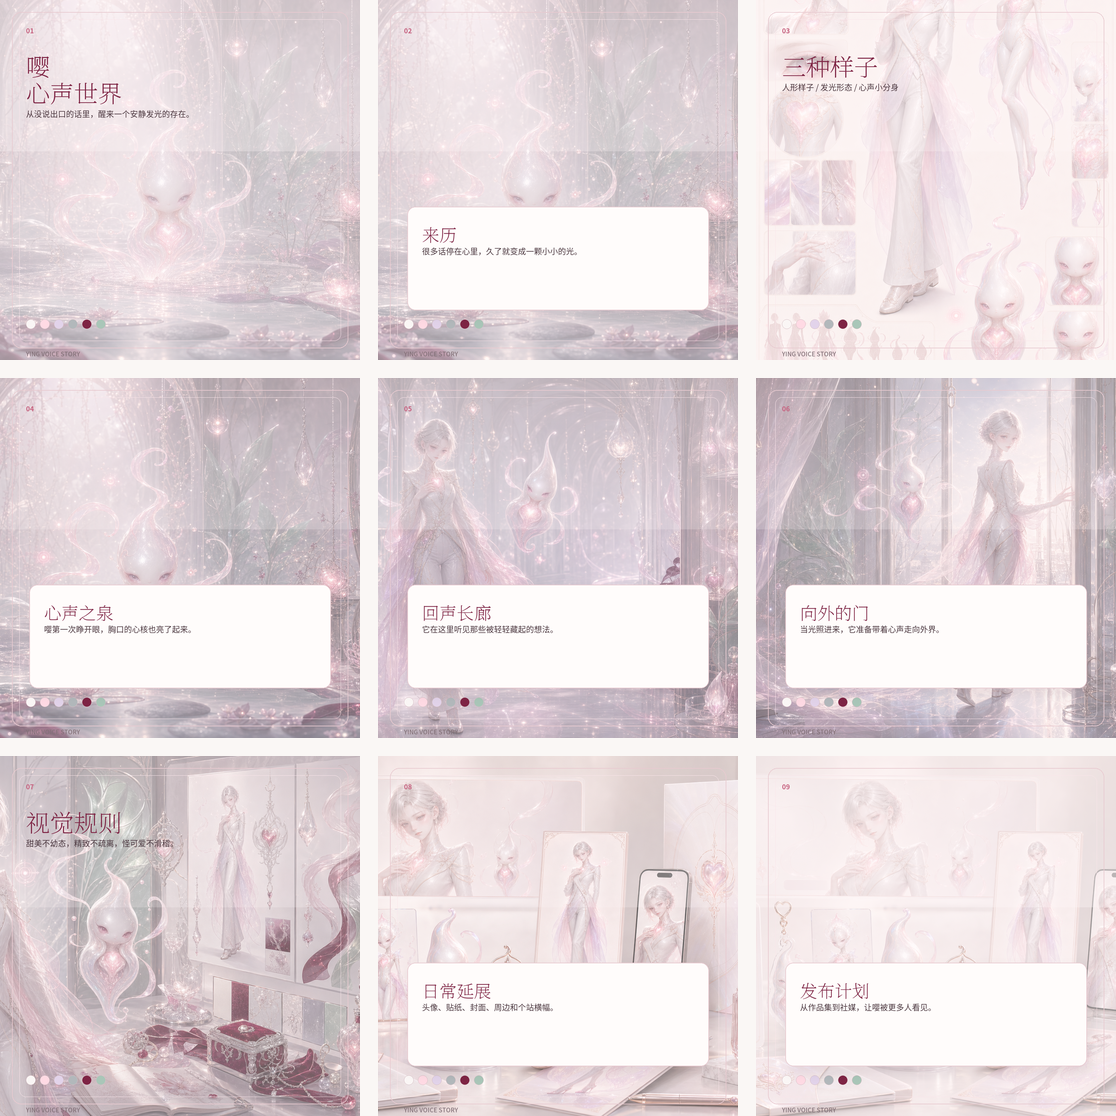
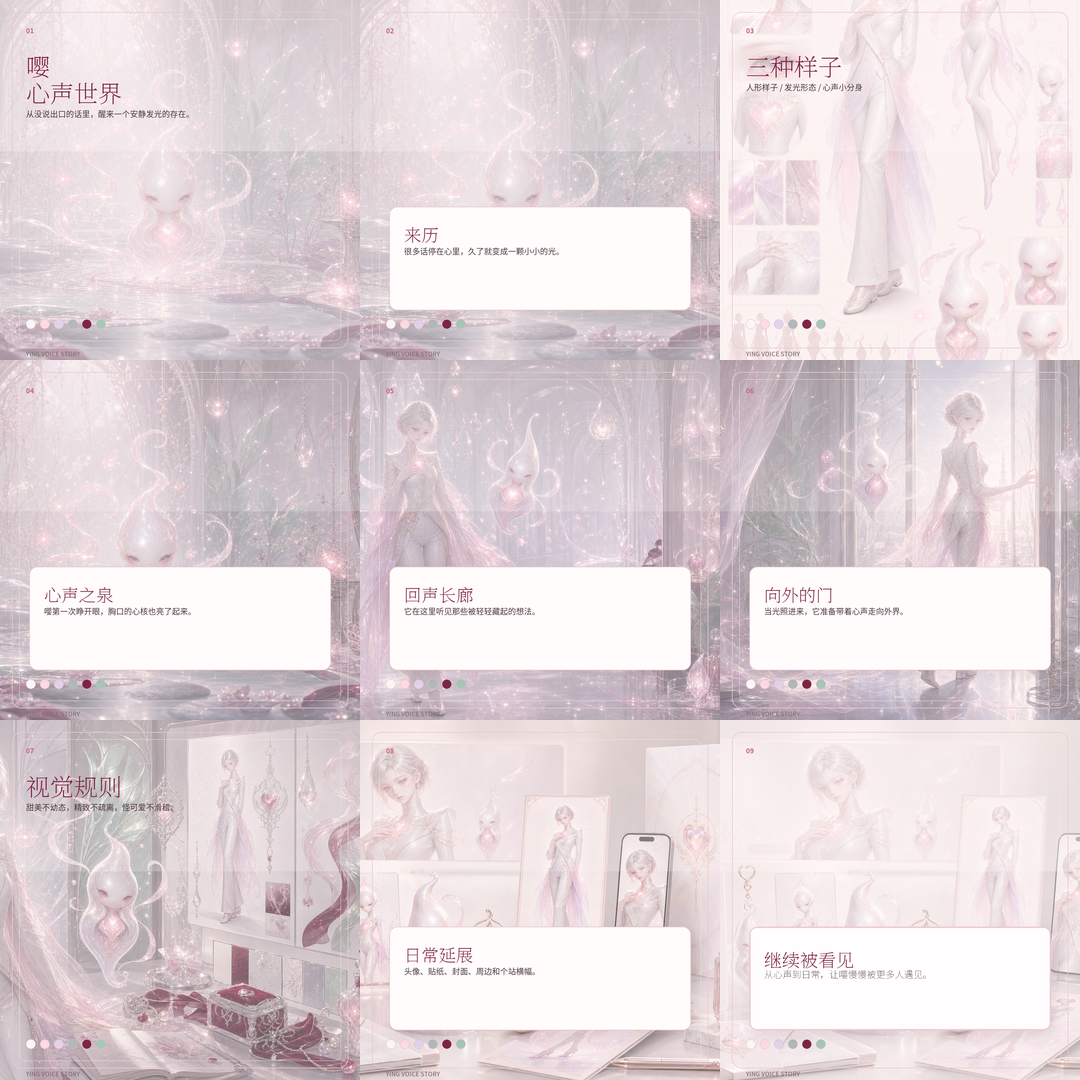
Integrate outward-facing gallery wording

diff --git a/index.html b/index.html
@@ -26,8 +26,7 @@
         <a href="#forms">三种样子</a>
         <a href="#outfits">衣服</a>
         <a href="#visual">视觉</a>
-        <a href="#web">个站图</a>
-        <a href="#social">发布包</a>
+        <a href="#web">被看见</a>
       </nav>
     </header>
 
@@ -58,7 +57,7 @@
           </div>
           <div>
             <span>9</span>
-            <p>发布图</p>
+            <p>外界画面</p>
           </div>
         </div>
       </section>
@@ -285,24 +284,24 @@
 
       <section id="web" class="section-band web-section">
         <div class="section-heading">
-          <p class="eyebrow">07 / WEBSITE MODULES</p>
-          <h2>页面里的展示图</h2>
+          <p class="eyebrow">07 / SEEN OUTSIDE</p>
+          <h2>它怎样被看见</h2>
         </div>
         <div class="web-image-grid">
           <article>
-            <img src="./assets/ying_ip_web_worldview_setting_v4.webp" alt="嘤的内心花园设定图" />
+            <img src="./assets/world_scenes/ying_world_origin_v1.webp" alt="嘤在心声之泉中醒来" />
             <div>
-              <span>WORLDVIEW</span>
-              <h3>内心花园</h3>
-              <p>解释它从哪里来、为什么存在，以及那些心核和声波意味着什么。</p>
+              <span>INNER BEGINNING</span>
+              <h3>从心里开始</h3>
+              <p>先让人看见它醒来的地方：水光、心核、声波，以及那些还没说出口的话。</p>
             </div>
           </article>
           <article>
-            <img src="./assets/ying_ip_web_application_setting_v4.webp" alt="嘤的公共露出设定图" />
+            <img src="./assets/grand_scenes/grand_scene_04_threshold_city_v1.webp" alt="嘤的世界通向外界" />
             <div>
-              <span>APPLICATION</span>
-              <h3>公共露出</h3>
-              <p>展示头像、贴纸、周边、封面与网页露出，让嘤可以真正出现在日常里。</p>
+              <span>OUTER TRACE</span>
+              <h3>再走向外界</h3>
+              <p>当门打开，它不再只是心里的光，也可以成为头像、贴纸、封面和被随手遇见的小画面。</p>
             </div>
           </article>
         </div>
@@ -310,26 +309,26 @@
 
       <section id="social" class="section-band social-section">
         <div class="section-heading">
-          <p class="eyebrow">08 / SOCIAL LAUNCH KIT</p>
-          <h2>社媒发布包</h2>
+          <p class="eyebrow">08 / FIRST GLIMPSE</p>
+          <h2>留给外界的九张画面</h2>
         </div>
         <div class="social-layout">
           <div class="social-copy">
-            <h3>发布定位</h3>
+            <h3>第一次见面</h3>
             <p>
-              这一组内容用于第一次把“嘤”推到大众视野里。它不是只展示结果图，而是用九宫格讲清楚：嘤从哪里来、它有哪三种样子、它怎样从心声走向日常。
+              这九张图像一次轻轻的自我介绍：先让人看见嘤从哪里来，再看见它的样子、颜色、衣服，以及它怎样慢慢走到日常里。
             </p>
             <div class="copy-card">
-              <span>首发标题</span>
+              <span>一句话</span>
               <p id="launch-title">嘤：一个从没说出口的心声里醒来的甜美怪可爱存在</p>
-              <button class="copy-button" type="button" data-copy-target="launch-title">复制标题</button>
+              <button class="copy-button" type="button" data-copy-target="launch-title">复制这句</button>
             </div>
             <div class="copy-card">
-              <span>首发文案</span>
+              <span>一段话</span>
               <p id="launch-copy">
                 嘤诞生在那些没被立刻说出口的心声里。它外表安静、腼腆、精致，内心却有很多想法、完美主义和对生活的向往。我希望它不只是好看，而是能慢慢替我说出那些柔软、敏感、认真生活的部分。
               </p>
-              <button class="copy-button" type="button" data-copy-target="launch-copy">复制文案</button>
+              <button class="copy-button" type="button" data-copy-target="launch-copy">复制这段</button>
             </div>
             <div class="tag-row" aria-label="推荐标签">
               <span>#原创设定</span>
@@ -339,33 +338,33 @@
               <span>#怪可爱</span>
             </div>
           </div>
-          <div class="post-grid" aria-label="九宫格发布节奏">
+          <div class="post-grid" aria-label="九张外界画面">
             <article class="post-card social-card-img">
-              <img src="./assets/social_cards/ying_ip_social_01.webp" alt="嘤首发图片 01" />
+              <img src="./assets/social_cards/ying_ip_social_01.webp" alt="嘤留给外界的画面 01" />
             </article>
             <article class="post-card social-card-img">
-              <img src="./assets/social_cards/ying_ip_social_02.webp" alt="嘤核心概念发布卡 02" />
+              <img src="./assets/social_cards/ying_ip_social_02.webp" alt="嘤留给外界的画面 02" />
             </article>
             <article class="post-card social-card-img">
-              <img src="./assets/social_cards/ying_ip_social_03.webp" alt="嘤三种样子发布卡 03" />
+              <img src="./assets/social_cards/ying_ip_social_03.webp" alt="嘤留给外界的画面 03" />
             </article>
             <article class="post-card social-card-img">
-              <img src="./assets/social_cards/ying_ip_social_04.webp" alt="嘤内心花园发布卡 04" />
+              <img src="./assets/social_cards/ying_ip_social_04.webp" alt="嘤留给外界的画面 04" />
             </article>
             <article class="post-card social-card-img">
-              <img src="./assets/social_cards/ying_ip_social_05.webp" alt="嘤情绪分身发布卡 05" />
+              <img src="./assets/social_cards/ying_ip_social_05.webp" alt="嘤留给外界的画面 05" />
             </article>
             <article class="post-card social-card-img">
-              <img src="./assets/social_cards/ying_ip_social_06.webp" alt="嘤视觉规则发布卡 06" />
+              <img src="./assets/social_cards/ying_ip_social_06.webp" alt="嘤留给外界的画面 06" />
             </article>
             <article class="post-card social-card-img">
-              <img src="./assets/social_cards/ying_ip_social_07.webp" alt="嘤三色升级发布卡 07" />
+              <img src="./assets/social_cards/ying_ip_social_07.webp" alt="嘤留给外界的画面 07" />
             </article>
             <article class="post-card social-card-img">
-              <img src="./assets/social_cards/ying_ip_social_08.webp" alt="嘤应用延展发布卡 08" />
+              <img src="./assets/social_cards/ying_ip_social_08.webp" alt="嘤留给外界的画面 08" />
             </article>
             <article class="post-card social-card-img">
-              <img src="./assets/social_cards/ying_ip_social_09.webp" alt="嘤发布计划发布卡 09" />
+              <img src="./assets/social_cards/ying_ip_social_09.webp" alt="嘤留给外界的画面 09" />
             </article>
           </div>
         </div>
@@ -373,29 +372,29 @@
 
       <section class="section-band download-section">
         <div class="section-heading">
-          <p class="eyebrow">09 / ASSET INDEX</p>
-          <h2>网页素材</h2>
+          <p class="eyebrow">09 / KEEP A PIECE</p>
+          <h2>可以带走的画面</h2>
         </div>
         <div class="download-grid">
-          <a href="./assets/ying_ip_web_worldview_setting_v4.webp" download>
-            <strong>内心花园 WebP</strong>
-            <span>内心花园横幅</span>
+          <a href="./assets/world_scenes/ying_world_origin_v1.webp" download>
+            <strong>心声之泉</strong>
+            <span>看见它醒来的地方</span>
           </a>
           <a href="./assets/grand_scenes/grand_scene_01_cathedral_v1.webp" download>
-            <strong>心声圣殿 WebP</strong>
-            <span>宏伟纯场景</span>
+            <strong>心声圣殿</strong>
+            <span>留住更远的世界</span>
           </a>
           <a href="./assets/grand_scenes/grand_scene_02_hanging_garden_v1.webp" download>
-            <strong>空中花园 WebP</strong>
-            <span>宏伟纯场景</span>
+            <strong>空中花园</strong>
+            <span>一片雾绿的远方</span>
           </a>
           <a href="./assets/outfits/outfit_02_berry_ceremony_v1.webp" download>
-            <strong>深莓礼服 WebP</strong>
-            <span>衣服示例图</span>
+            <strong>深莓礼服</strong>
+            <span>它更隆重的样子</span>
           </a>
           <a href="./assets/social_cards/ying_ip_social_contact_sheet.png" download>
-            <strong>九宫格总览 PNG</strong>
-            <span>社媒发布预览</span>
+            <strong>九张画面</strong>
+            <span>一次完整的见面</span>
           </a>
         </div>
       </section>

diff --git a/README.md b/README.md
@@ -1,6 +1,6 @@
 # YING Voice Story
 
-这是「嘤」的个人世界页面，包含来历、心声世界、宏伟纯场景、五套衣服、视觉规则、个站图和发布图片。
+这是「嘤」的个人世界页面，包含来历、心声世界、宏伟纯场景、五套衣服、视觉规则，以及它走向外界时留下的画面。
 
 ## 预览
 